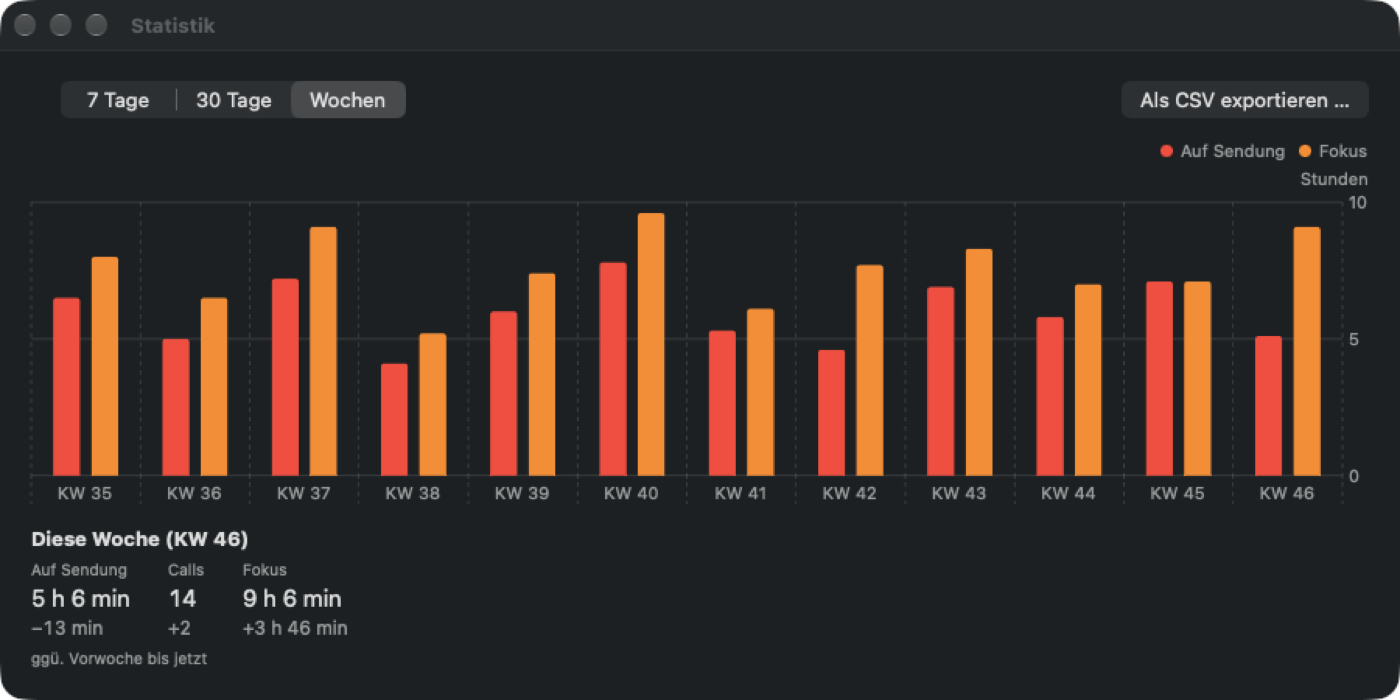
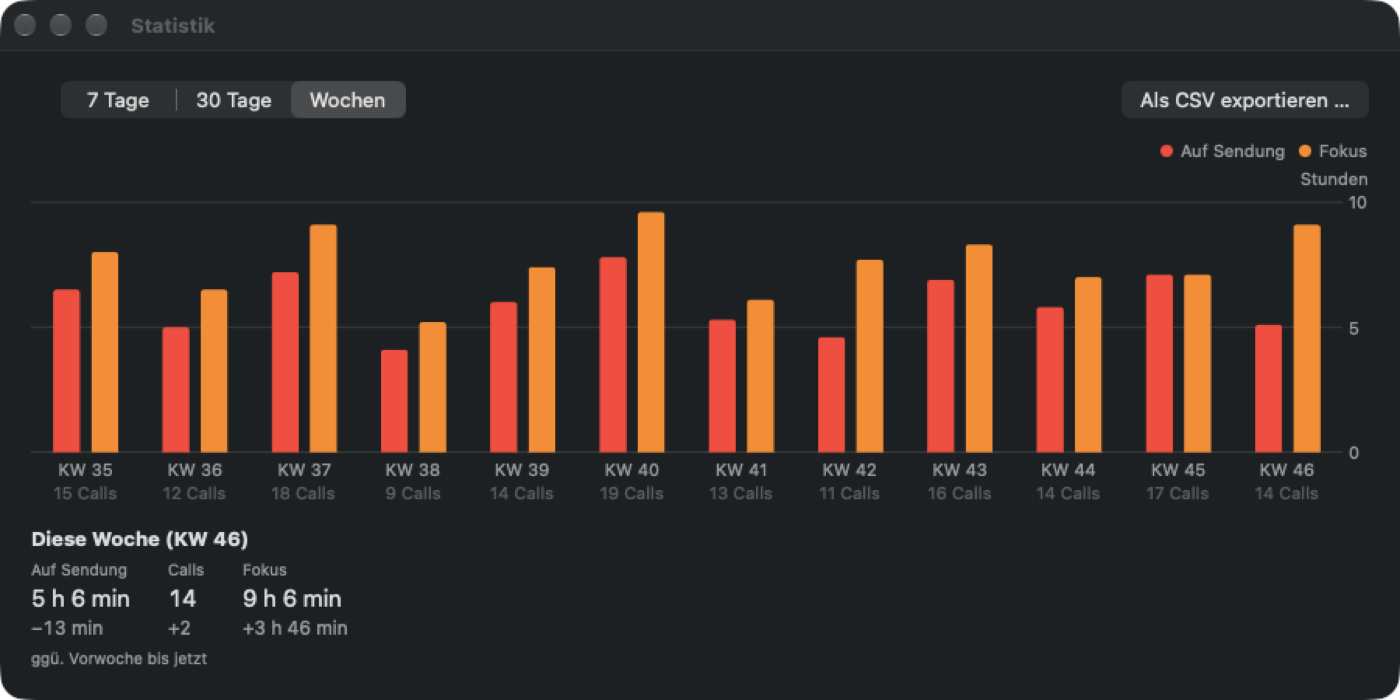
feat(app): show calls per week and size the export choice #39

diff --git a/apps/MicLED/Sources/StatsView.swift b/apps/MicLED/Sources/StatsView.swift
@@ -104,6 +104,18 @@ struct StatsView: View {
             .position(by: .value("Art", bar.kind))
         }
         .chartForegroundStyleScale([Self.live: Color.red, Self.focus: Color.orange])
+        .chartXAxis {
+            AxisMarks { value in
+                AxisValueLabel {
+                    if let label = value.as(String.self) {
+                        VStack(spacing: 1) {
+                            Text(label)
+                            Text("\(callsByLabel[label] ?? 0) Calls").foregroundStyle(.secondary)
+                        }
+                    }
+                }
+            }
+        }
         .chartYAxisLabel("Stunden")
         .chartLegend(position: .top, alignment: .trailing)
         .frame(minHeight: 220)
@@ -131,6 +143,11 @@ struct StatsView: View {
                 WeekBar(label: "KW \(w.week)", kind: Self.focus, seconds: w.focusSeconds),
             ]
         }
+    }
+
+    /// Zahl der Calls je Beschriftung „KW <n>“
+    private var callsByLabel: [String: UInt32] {
+        Dictionary((weekly?.weeks ?? []).map { ("KW \($0.week)", $0.calls) }, uniquingKeysWith: { a, _ in a })
     }
 
     /// Differenz zweier Dauern mit Vorzeichen, z.B. „+1 h 5 min“
@@ -200,6 +217,7 @@ private final class ExportChoice: NSObject {
         let label = NSTextField(labelWithString: "Inhalt:")
         let stack = NSStackView(views: [label, popup])
         stack.edgeInsets = NSEdgeInsets(top: 8, left: 12, bottom: 8, right: 12)
+        stack.frame.size = stack.fittingSize
         view = stack
         super.init()
         popup.target = self
